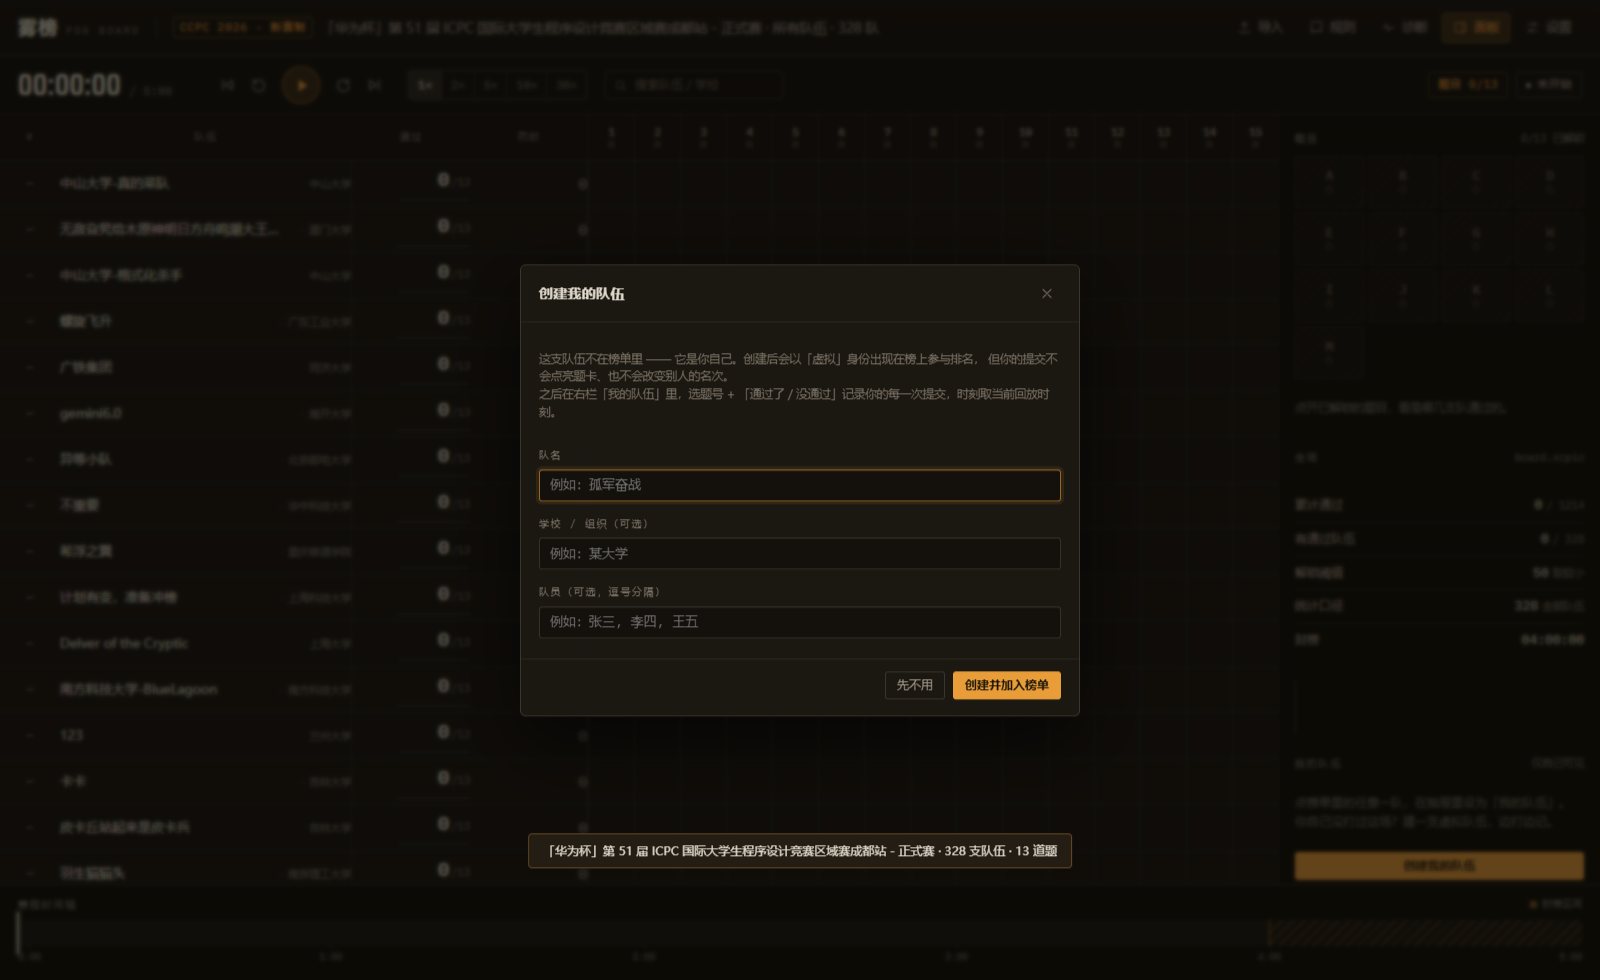
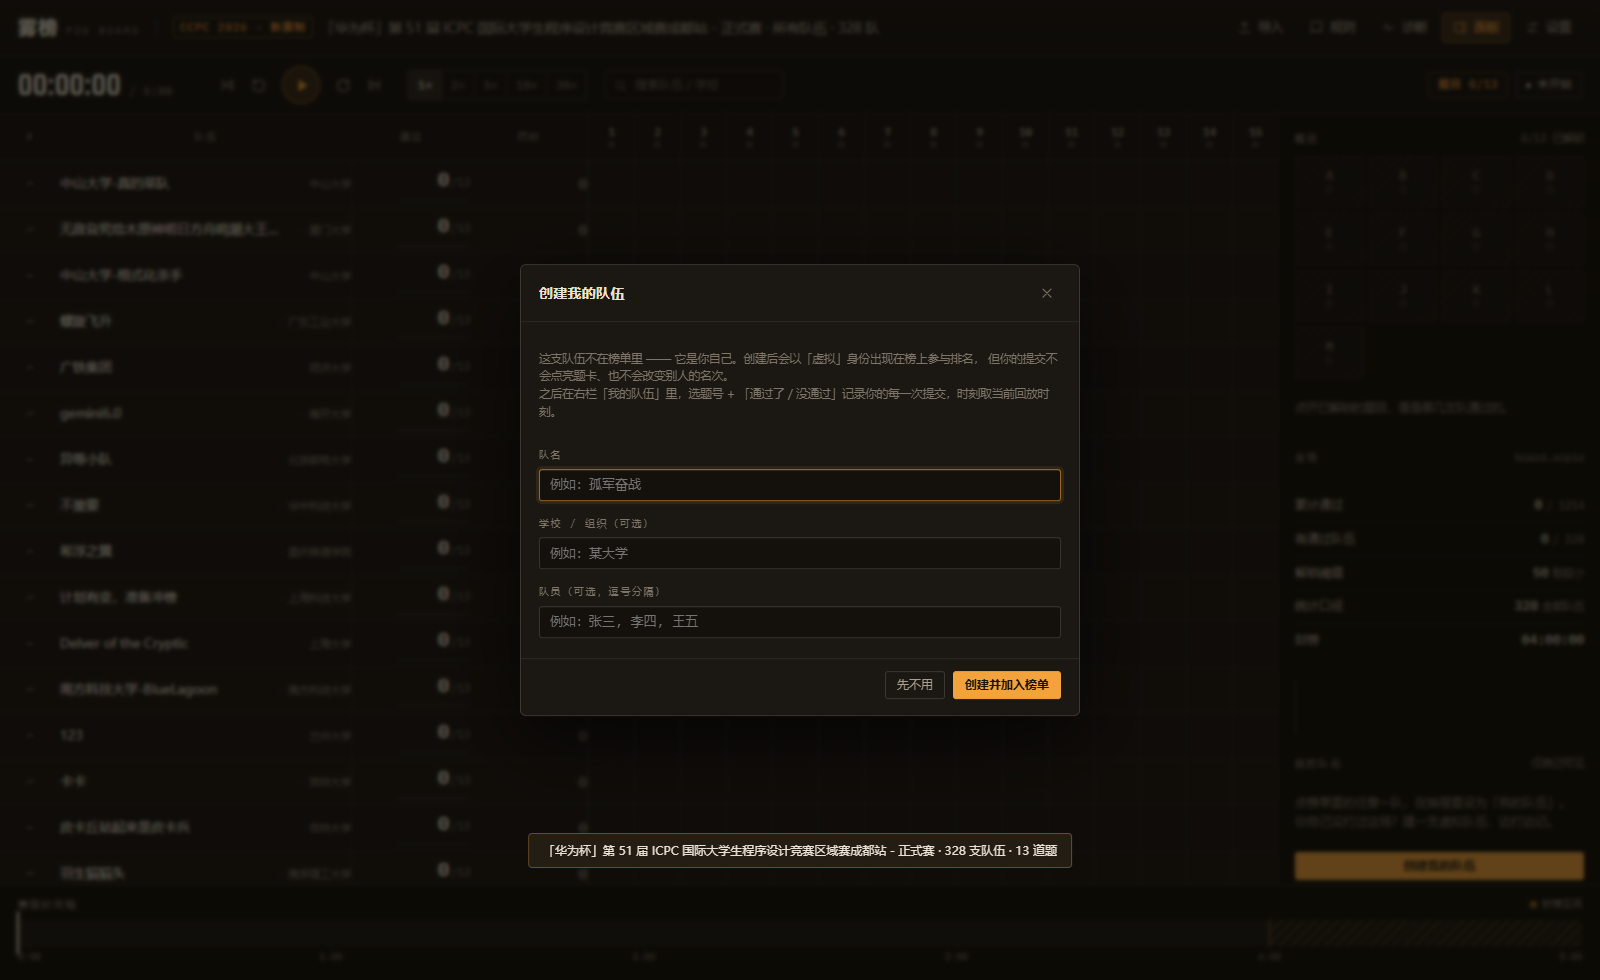
修：编辑虚拟队伍时别把提交流水清空

diff --git a/src/App.tsx b/src/App.tsx
@@ -184,13 +184,19 @@ export default function App() {
   const handleCreateTeam = useCallback(
     (input: { name: string; organization: string; members: string[] }) => {
       if (!contest) return
-      const team = createManualTeam(input)
+      const base = createManualTeam(input)
+      // 编辑已有队伍时保留提交流水，只改名字
+      const team = manualTeam ? { ...base, submissions: manualTeam.submissions } : base
       commitManual(team)
       setSettings((prev) => ({ ...prev, selfTeamId: MANUAL_TEAM_ID }))
       setDialog(null)
-      setToast(`${team.name} 加入榜单：从现在开始，点「通过了 / 没通过」记录你的提交`)
+      setToast(
+        manualTeam
+          ? `已更新队伍信息：${team.name}`
+          : `${team.name} 加入榜单：从现在开始，点「通过了 / 没通过」记录你的提交`,
+      )
     },
-    [contest, commitManual],
+    [contest, commitManual, manualTeam],
   )
 
   const handleRemoveTeam = useCallback(() => {
